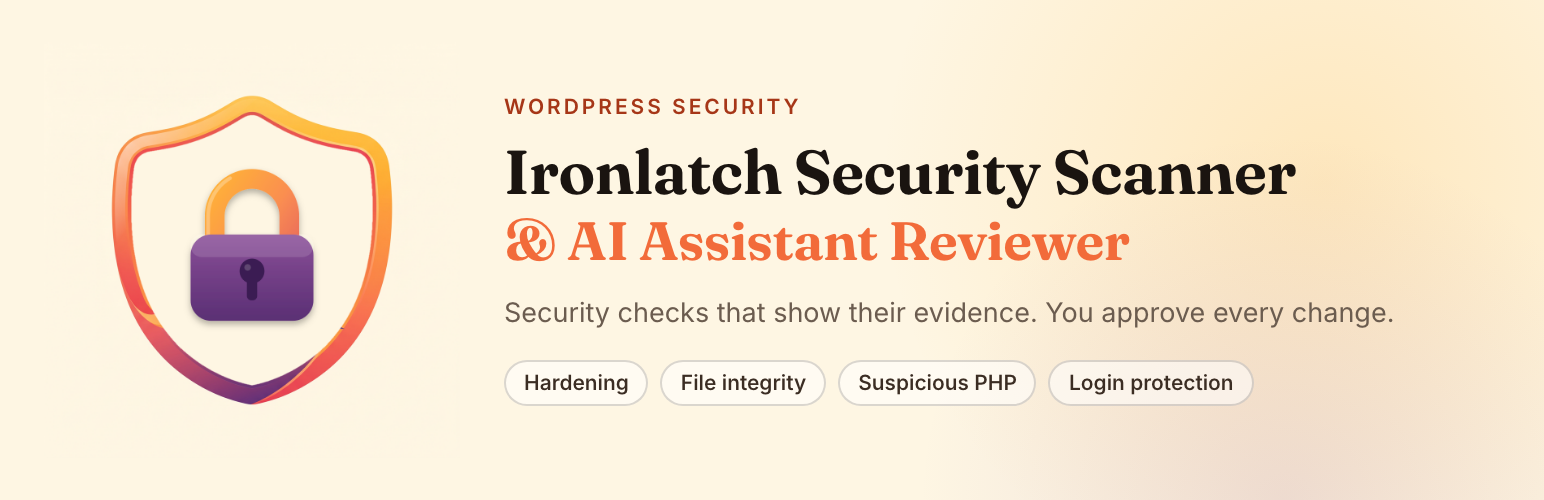
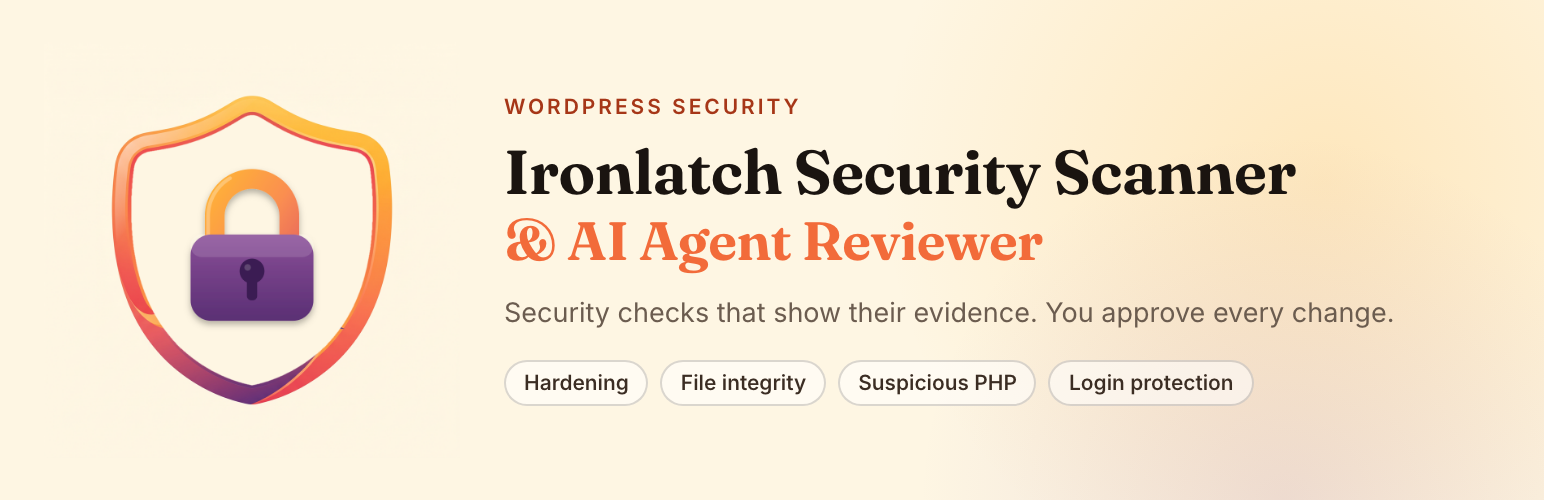
0.1.12: AI Agent Reviewer title; AI & MCP page shows the agent switch (#58)

Changed region(s): [[0.4352, 0.45, 0.7461, 0.54]]

diff --git a/src/Admin/McpSettingsRenderer.php b/src/Admin/McpSettingsRenderer.php
@@ -9,16 +9,16 @@ defined( 'ABSPATH' ) || exit;
 final class McpSettingsRenderer {
 	public function render( bool $enabled, bool $abilitiesAvailable, bool $adapterAvailable, string $actionUrl, string $nonce ): string {
 		$status = $enabled ? __( 'enabled', 'ironlatch-security-scanner' ) : __( 'disabled', 'ironlatch-security-scanner' );
-		$html   = '<section id="ironlatch-mcp" class="ironlatch-mcp" aria-labelledby="ironlatch-mcp-title"><h2 id="ironlatch-mcp-title">' . esc_html__( 'AI assistant access', 'ironlatch-security-scanner' ) . '</h2><p>' . sprintf(
+		$html   = '<section id="ironlatch-mcp" class="ironlatch-mcp" aria-labelledby="ironlatch-mcp-title"><h2 id="ironlatch-mcp-title">' . esc_html__( 'AI agent access', 'ironlatch-security-scanner' ) . '</h2><p>' . sprintf(
 				/* translators: %s: current MCP status, either enabled or disabled. */
 			esc_html__( 'MCP is %s. WordPress 6.9 or newer and the official MCP Adapter are required. Your site continues to work without either one.', 'ironlatch-security-scanner' ),
 			esc_html( $status )
 		) . '</p>';
 		if ( ! $abilitiesAvailable || ! $adapterAvailable ) {
-			$html .= '<p role="status">' . esc_html__( 'MCP is unavailable here. Install or activate the required WordPress version and MCP Adapter before connecting an assistant.', 'ironlatch-security-scanner' ) . '</p>';
+			$html .= '<p role="status">' . esc_html__( 'MCP is unavailable here. Install or activate the required WordPress version and MCP Adapter before connecting an agent.', 'ironlatch-security-scanner' ) . '</p>';
 		}
-		$html .= '<p>' . esc_html__( 'When enabled, an authenticated administrator can let an assistant list findings, inspect one finding, start a local hardening scan, and read that scan. The assistant cannot approve or apply a fix.', 'ironlatch-security-scanner' ) . '</p>';
-		$html .= '<form action="' . esc_url( $actionUrl ) . '" method="post"><input type="hidden" name="action" value="ironlatch_mcp_settings"><input type="hidden" name="_wpnonce" value="' . esc_attr( $nonce ) . '"><label for="ironlatch-mcp-enabled">' . esc_html__( 'AI assistant access', 'ironlatch-security-scanner' ) . '</label><select id="ironlatch-mcp-enabled" name="enabled"><option value="0"' . ( $enabled ? '' : ' selected' ) . '>' . esc_html__( 'Off', 'ironlatch-security-scanner' ) . '</option><option value="1"' . ( $enabled ? ' selected' : '' ) . '>' . esc_html__( 'On', 'ironlatch-security-scanner' ) . '</option></select><button type="submit" class="button button-secondary">' . esc_html__( 'Save MCP setting', 'ironlatch-security-scanner' ) . '</button></form></section>';
+		$html .= '<p>' . esc_html__( 'When enabled, an authenticated administrator can let an agent list findings, inspect one finding, start a local hardening scan, read that scan, and propose a login protection setting change. The agent cannot approve or apply it; an administrator does that in wp-admin.', 'ironlatch-security-scanner' ) . '</p>';
+		$html .= '<form action="' . esc_url( $actionUrl ) . '" method="post"><input type="hidden" name="action" value="ironlatch_mcp_settings"><input type="hidden" name="_wpnonce" value="' . esc_attr( $nonce ) . '"><label for="ironlatch-mcp-enabled">' . esc_html__( 'AI agent access', 'ironlatch-security-scanner' ) . '</label><select id="ironlatch-mcp-enabled" name="enabled"><option value="0"' . ( $enabled ? '' : ' selected' ) . '>' . esc_html__( 'Off', 'ironlatch-security-scanner' ) . '</option><option value="1"' . ( $enabled ? ' selected' : '' ) . '>' . esc_html__( 'On', 'ironlatch-security-scanner' ) . '</option></select><button type="submit" class="button button-secondary">' . esc_html__( 'Save MCP setting', 'ironlatch-security-scanner' ) . '</button></form></section>';
 		return $html;
 	}
 }

diff --git a/src/Free/Assistant/Module.php b/src/Free/Assistant/Module.php
@@ -10,7 +10,7 @@ use AmazingPlugins\Security\Admin\McpSettingsRenderer;
 use AmazingPlugins\Security\Integrity\WordPressOptions;
 use AmazingPlugins\Security\Mcp\McpPreferences;
 
-/** Coming soon. A model that can help fix findings needs an Amazing Plugins server. */
+/** AI & MCP page: the switch for outside AI agent access. */
 final class Module {
 	public static function boot(): void {
 		add_action( 'admin_menu', array( self::class, 'menu' ) );
@@ -32,16 +32,11 @@ final class Module {
 			wp_die( esc_html__( 'Administrator access required.', 'ironlatch-security-scanner' ), '', array( 'response' => 403 ) );
 		}
 		$enabled = ( new McpPreferences( new WordPressOptions() ) )->enabled();
+		$adapter = function_exists( 'is_plugin_active' ) && is_plugin_active( 'mcp-adapter/mcp-adapter.php' );
 		echo '<div class="wrap ironlatch-security-scanner-admin">';
-		echo '<p class="ironlatch-brief-status"><span class="ironlatch-pill is-off">' . esc_html__( 'Coming soon', 'ironlatch-security-scanner' ) . '</span></p>';
-		echo '<p>' . esc_html__( 'A model should be able to read a scan and help you fix what it finds. That needs an Amazing Plugins server, so it is not in this version.', 'ironlatch-security-scanner' ) . '</p>';
-		echo '<p>' . esc_html__( 'If that server is required, this may be a paid add-on. The scan, the recommendations, and the other tools stay in this plugin.', 'ironlatch-security-scanner' ) . '</p>';
-		if ( $enabled ) {
-			echo '<p>' . esc_html__( 'Assistant access is already on for this site. You can turn it off here.', 'ironlatch-security-scanner' ) . '</p>';
-			$adapter = function_exists( 'is_plugin_active' ) && is_plugin_active( 'mcp-adapter/mcp-adapter.php' );
-			// The renderer escapes its own values.
-			echo wp_kses( ( new McpSettingsRenderer() )->render( true, function_exists( 'wp_register_ability' ), $adapter, admin_url( 'admin-post.php' ), wp_create_nonce( 'ironlatch_mcp_settings' ) ), \AmazingPlugins\Security\Admin\AdminHtml::allowed() );
-		}
+		echo '<p>' . esc_html__( 'Let an outside AI agent review this site\'s scan results. The agent connects through MCP and works with the findings. This plugin does not run an AI model itself, and nothing changes until an administrator approves it.', 'ironlatch-security-scanner' ) . '</p>';
+		// The renderer escapes its own values.
+		echo wp_kses( ( new McpSettingsRenderer() )->render( $enabled, function_exists( 'wp_register_ability' ), $adapter, admin_url( 'admin-post.php' ), wp_create_nonce( 'ironlatch_mcp_settings' ) ), \AmazingPlugins\Security\Admin\AdminHtml::allowed() );
 		echo '</div>';
 	}
 }

diff --git a/src/Checks/AiReadinessCheck.php b/src/Checks/AiReadinessCheck.php
@@ -124,11 +124,11 @@ final class AiReadinessCheck implements SecurityCheck {
 			default => __( 'Application password availability could not be read.', 'ironlatch-security-scanner' ),
 		};
 		$access = match ( true ) {
-			'on' === $assistant => __( 'AI assistant access is on.', 'ironlatch-security-scanner' ),
-			'off' === $assistant && 'yes' === $ready => __( 'AI assistant access is off. This site can connect an assistant when you turn that on.', 'ironlatch-security-scanner' ),
-			'off' === $assistant && 'no' === $ready => __( 'AI assistant access is off. This site is not ready to connect an assistant yet.', 'ironlatch-security-scanner' ),
-			'off' === $assistant => __( 'AI assistant access is off. Assistant readiness could not be read.', 'ironlatch-security-scanner' ),
-			default => __( 'AI assistant access could not be read.', 'ironlatch-security-scanner' ),
+			'on' === $assistant => __( 'AI agent access is on.', 'ironlatch-security-scanner' ),
+			'off' === $assistant && 'yes' === $ready => __( 'AI agent access is off. This site can connect an agent when you turn that on.', 'ironlatch-security-scanner' ),
+			'off' === $assistant && 'no' === $ready => __( 'AI agent access is off. This site is not ready to connect an agent yet.', 'ironlatch-security-scanner' ),
+			'off' === $assistant => __( 'AI agent access is off. Agent readiness could not be read.', 'ironlatch-security-scanner' ),
+			default => __( 'AI agent access could not be read.', 'ironlatch-security-scanner' ),
 		};
 		$file = match ( $guide ) {
 			'present' => __( 'An llms.txt guide is published for AI readers.', 'ironlatch-security-scanner' ),

diff --git a/src/Admin/FixReviewPage.php b/src/Admin/FixReviewPage.php
@@ -76,7 +76,7 @@ final class FixReviewPage {
 		if ( 'applied' === $proposal->status && $proposal->canRollback( $now ) ) {
 			$html .= '<p role="status">' . esc_html__( 'This change was applied. You can restore the previous mode for 24 hours.', 'ironlatch-security-scanner' ) . '</p><form method="post" action="' . esc_url( $actionUrl ) . '"><input type="hidden" name="action" value="ironlatch_fix_rollback"><input type="hidden" name="proposal_id" value="' . esc_attr( $proposal->id ) . '"><input type="hidden" name="_wpnonce" value="' . esc_attr( $rollbackNonce ) . '"><input type="hidden" name="confirm" value="1"><button type="submit" class="button">' . esc_html__( 'Restore previous mode', 'ironlatch-security-scanner' ) . '</button></form>';
 		} elseif ( ! $enabled ) {
-			$html .= '<p role="status">' . esc_html__( 'AI assistant access is off. This proposal cannot be approved.', 'ironlatch-security-scanner' ) . '</p>';
+			$html .= '<p role="status">' . esc_html__( 'AI agent access is off. This proposal cannot be approved.', 'ironlatch-security-scanner' ) . '</p>';
 		} elseif ( 'pending' === $proposal->status && ! $stale && ! $proposal->isExpired( $now ) && ( 'block' !== $proposal->afterMode || $secure ) ) {
 			$html .= '<form method="post" action="' . esc_url( $actionUrl ) . '"><input type="hidden" name="action" value="ironlatch_fix_approve"><input type="hidden" name="proposal_id" value="' . esc_attr( $proposal->id ) . '"><input type="hidden" name="_wpnonce" value="' . esc_attr( $nonce ) . '"><input type="hidden" name="confirm" value="1">';
 			if ( 'block' === $proposal->afterMode ) {

diff --git a/tests/Unit/McpSettingsRendererTest.php b/tests/Unit/McpSettingsRendererTest.php
@@ -1,0 +1,31 @@
+<?php
+
+declare(strict_types=1);
+
+namespace AmazingPlugins\Security\Tests\Unit;
+
+require_once dirname( __DIR__, 2 ) . '/src/Admin/McpSettingsRenderer.php';
+
+use AmazingPlugins\Security\Admin\McpSettingsRenderer;
+use PHPUnit\Framework\TestCase;
+
+/** The AI agent switch must always render, say it is off by default, and name the agent consistently. */
+final class McpSettingsRendererTest extends TestCase {
+	public function test_the_switch_renders_when_access_is_off_and_mcp_is_unavailable(): void {
+		$html = ( new McpSettingsRenderer() )->render( false, false, false, 'https://example.test/wp-admin/admin-post.php', 'nonce123' );
+
+		self::assertStringContainsString( 'name="enabled"', $html );
+		self::assertStringContainsString( '<option value="0" selected>', $html );
+		self::assertStringContainsString( 'MCP is unavailable here', $html );
+		self::assertStringContainsString( 'value="nonce123"', $html );
+	}
+
+	public function test_the_on_state_is_selected_and_the_copy_says_agent_never_assistant(): void {
+		$html = ( new McpSettingsRenderer() )->render( true, true, true, 'https://example.test/wp-admin/admin-post.php', 'n' );
+
+		self::assertStringContainsString( '<option value="1" selected>', $html );
+		self::assertStringNotContainsString( 'unavailable', $html );
+		self::assertStringNotContainsStringIgnoringCase( 'assistant', $html );
+		self::assertStringContainsString( 'cannot approve or apply it', $html );
+	}
+}

diff --git a/tests/Unit/StartSuggestionsTest.php b/tests/Unit/StartSuggestionsTest.php
@@ -187,14 +187,14 @@ final class StartSuggestionsTest extends TestCase {
 
 		self::assertSame( 'warn', $open->state );
 		self::assertStringContainsString( 'Application passwords are available', $open->summary );
-		self::assertStringContainsString( 'not ready to connect an assistant', $open->summary );
+		self::assertStringContainsString( 'not ready to connect an agent', $open->summary );
 		self::assertStringContainsString( 'No llms.txt guide', $open->summary );
 		self::assertStringContainsString( 'does not send', $open->summary );
 		self::assertStringNotContainsString( 'safe', $open->summary );
 		self::assertSame( 'disable-application-passwords', StartHere::control( $open )['operation'] );
 
 		self::assertSame( 'warn', $on->state );
-		self::assertStringContainsString( 'AI assistant access is on', $on->summary );
+		self::assertStringContainsString( 'AI agent access is on', $on->summary );
 		self::assertStringContainsString( 'llms.txt guide is published', $on->summary );
 		self::assertSame( 'ironlatch-assistant', StartHere::control( $on )['page'] );
 		self::assertSame( 'ironlatch-mcp', StartHere::control( $on )['hash'] );

diff --git a/src/Admin/SiteRiskCard.php b/src/Admin/SiteRiskCard.php
@@ -36,7 +36,7 @@ final class SiteRiskCard {
 			'bots:all-off' => __( 'Bot controls, the scanner guard and rate limits are all off.', 'ironlatch-security-scanner' ),
 			'bots:watch-only' => __( 'Bot protection is watching but not blocking anything yet.', 'ironlatch-security-scanner' ),
 			'bots:on' => __( 'At least one bot protection is blocking.', 'ironlatch-security-scanner' ),
-			'ai:assistant-plain' => __( 'AI assistant access is on while the admin is not on HTTPS.', 'ironlatch-security-scanner' ),
+			'ai:assistant-plain' => __( 'AI agent access is on while the admin is not on HTTPS.', 'ironlatch-security-scanner' ),
 			'ai:crawlers' => __( 'AI crawlers are not told whether they may read the site.', 'ironlatch-security-scanner' ),
 			'ai:no-guide' => __( 'There is no llms.txt guide for AI tools.', 'ironlatch-security-scanner' ),
 			'ai:ready' => __( 'AI access and crawler rules are set.', 'ironlatch-security-scanner' ),

diff --git a/src/Activity/ActivityRenderer.php b/src/Activity/ActivityRenderer.php
@@ -141,7 +141,7 @@ final class ActivityRenderer {
 			'ironlatch_login_xmlrpc_disabled'        => __( 'XML-RPC sign-in', 'ironlatch-security-scanner' ),
 			'ironlatch_alerts_enabled'               => __( 'Alert email', 'ironlatch-security-scanner' ),
 			'ironlatch_digest_enabled'               => __( 'Weekly digest', 'ironlatch-security-scanner' ),
-			'ironlatch_security_scanner_mcp_enabled' => __( 'Assistant connection', 'ironlatch-security-scanner' ),
+			'ironlatch_security_scanner_mcp_enabled' => __( 'Agent connection', 'ironlatch-security-scanner' ),
 			'ironlatch_security_scanner_vulnerability_direct_enabled' => __( 'Direct vulnerability lookup', 'ironlatch-security-scanner' ),
 			'ironlatch_security_scanner_kev_enabled' => __( 'CISA list of exploited holes', 'ironlatch-security-scanner' ),
 		);

diff --git a/src/Admin/FixApprovalAction.php b/src/Admin/FixApprovalAction.php
@@ -31,7 +31,7 @@ final class FixApprovalAction {
 			wp_die( esc_html__( 'Invalid proposal request.', 'ironlatch-security-scanner' ), '', array( 'response' => 400 ) );
 		}
 		if ( ! ( new McpPreferences( new WordPressOptions() ) )->enabled() ) {
-			wp_die( esc_html__( 'AI assistant access is off.', 'ironlatch-security-scanner' ), '', array( 'response' => 403 ) );
+			wp_die( esc_html__( 'AI agent access is off.', 'ironlatch-security-scanner' ), '', array( 'response' => 403 ) );
 		}
 		$repository = new WordPressFixRepository( $GLOBALS['wpdb'] );
 		try {

diff --git a/ironlatch-security-scanner.php b/ironlatch-security-scanner.php
@@ -1,9 +1,9 @@
 <?php
 /**
- * Plugin Name: Ironlatch Security Scanner & AI Assistant Reviewer
+ * Plugin Name: Ironlatch Security Scanner & AI Agent Reviewer
  * Plugin URI: https://amazingplugins.com/plugins/ironlatch-security-scanner/
  * Description: Local WordPress security checks and optional login protection.
- * Version: 0.1.11
+ * Version: 0.1.12
  * Requires at least: 6.6
  * Requires PHP: 8.1
  * Author: Amazing Plugins

diff --git a/src/Admin/FirstRun.php b/src/Admin/FirstRun.php
@@ -85,7 +85,7 @@ final class FirstRun {
 			array(
 				'target' => $link( 'ironlatch-assistant' ),
 				'title'  => __( 'AI & MCP', 'ironlatch-security-scanner' ),
-				'text'   => __( 'Optional access for an AI assistant.', 'ironlatch-security-scanner' ),
+				'text'   => __( 'Optional access for an AI agent.', 'ironlatch-security-scanner' ),
 			),
 			array(
 				'target' => '.ironlatch-scan-button',

diff --git a/src/Admin/StartHere.php b/src/Admin/StartHere.php
@@ -371,7 +371,7 @@ final class StartHere {
 			) : null,
 			'ai-readiness' => match ( true ) {
 				'on' === ( $result->evidence['assistant'] ?? '' ) => array(
-					'label' => __( 'Review AI assistant access', 'ironlatch-security-scanner' ),
+					'label' => __( 'Review AI agent access', 'ironlatch-security-scanner' ),
 					'page'  => 'ironlatch-assistant',
 					'hash'  => 'ironlatch-mcp',
 				),
